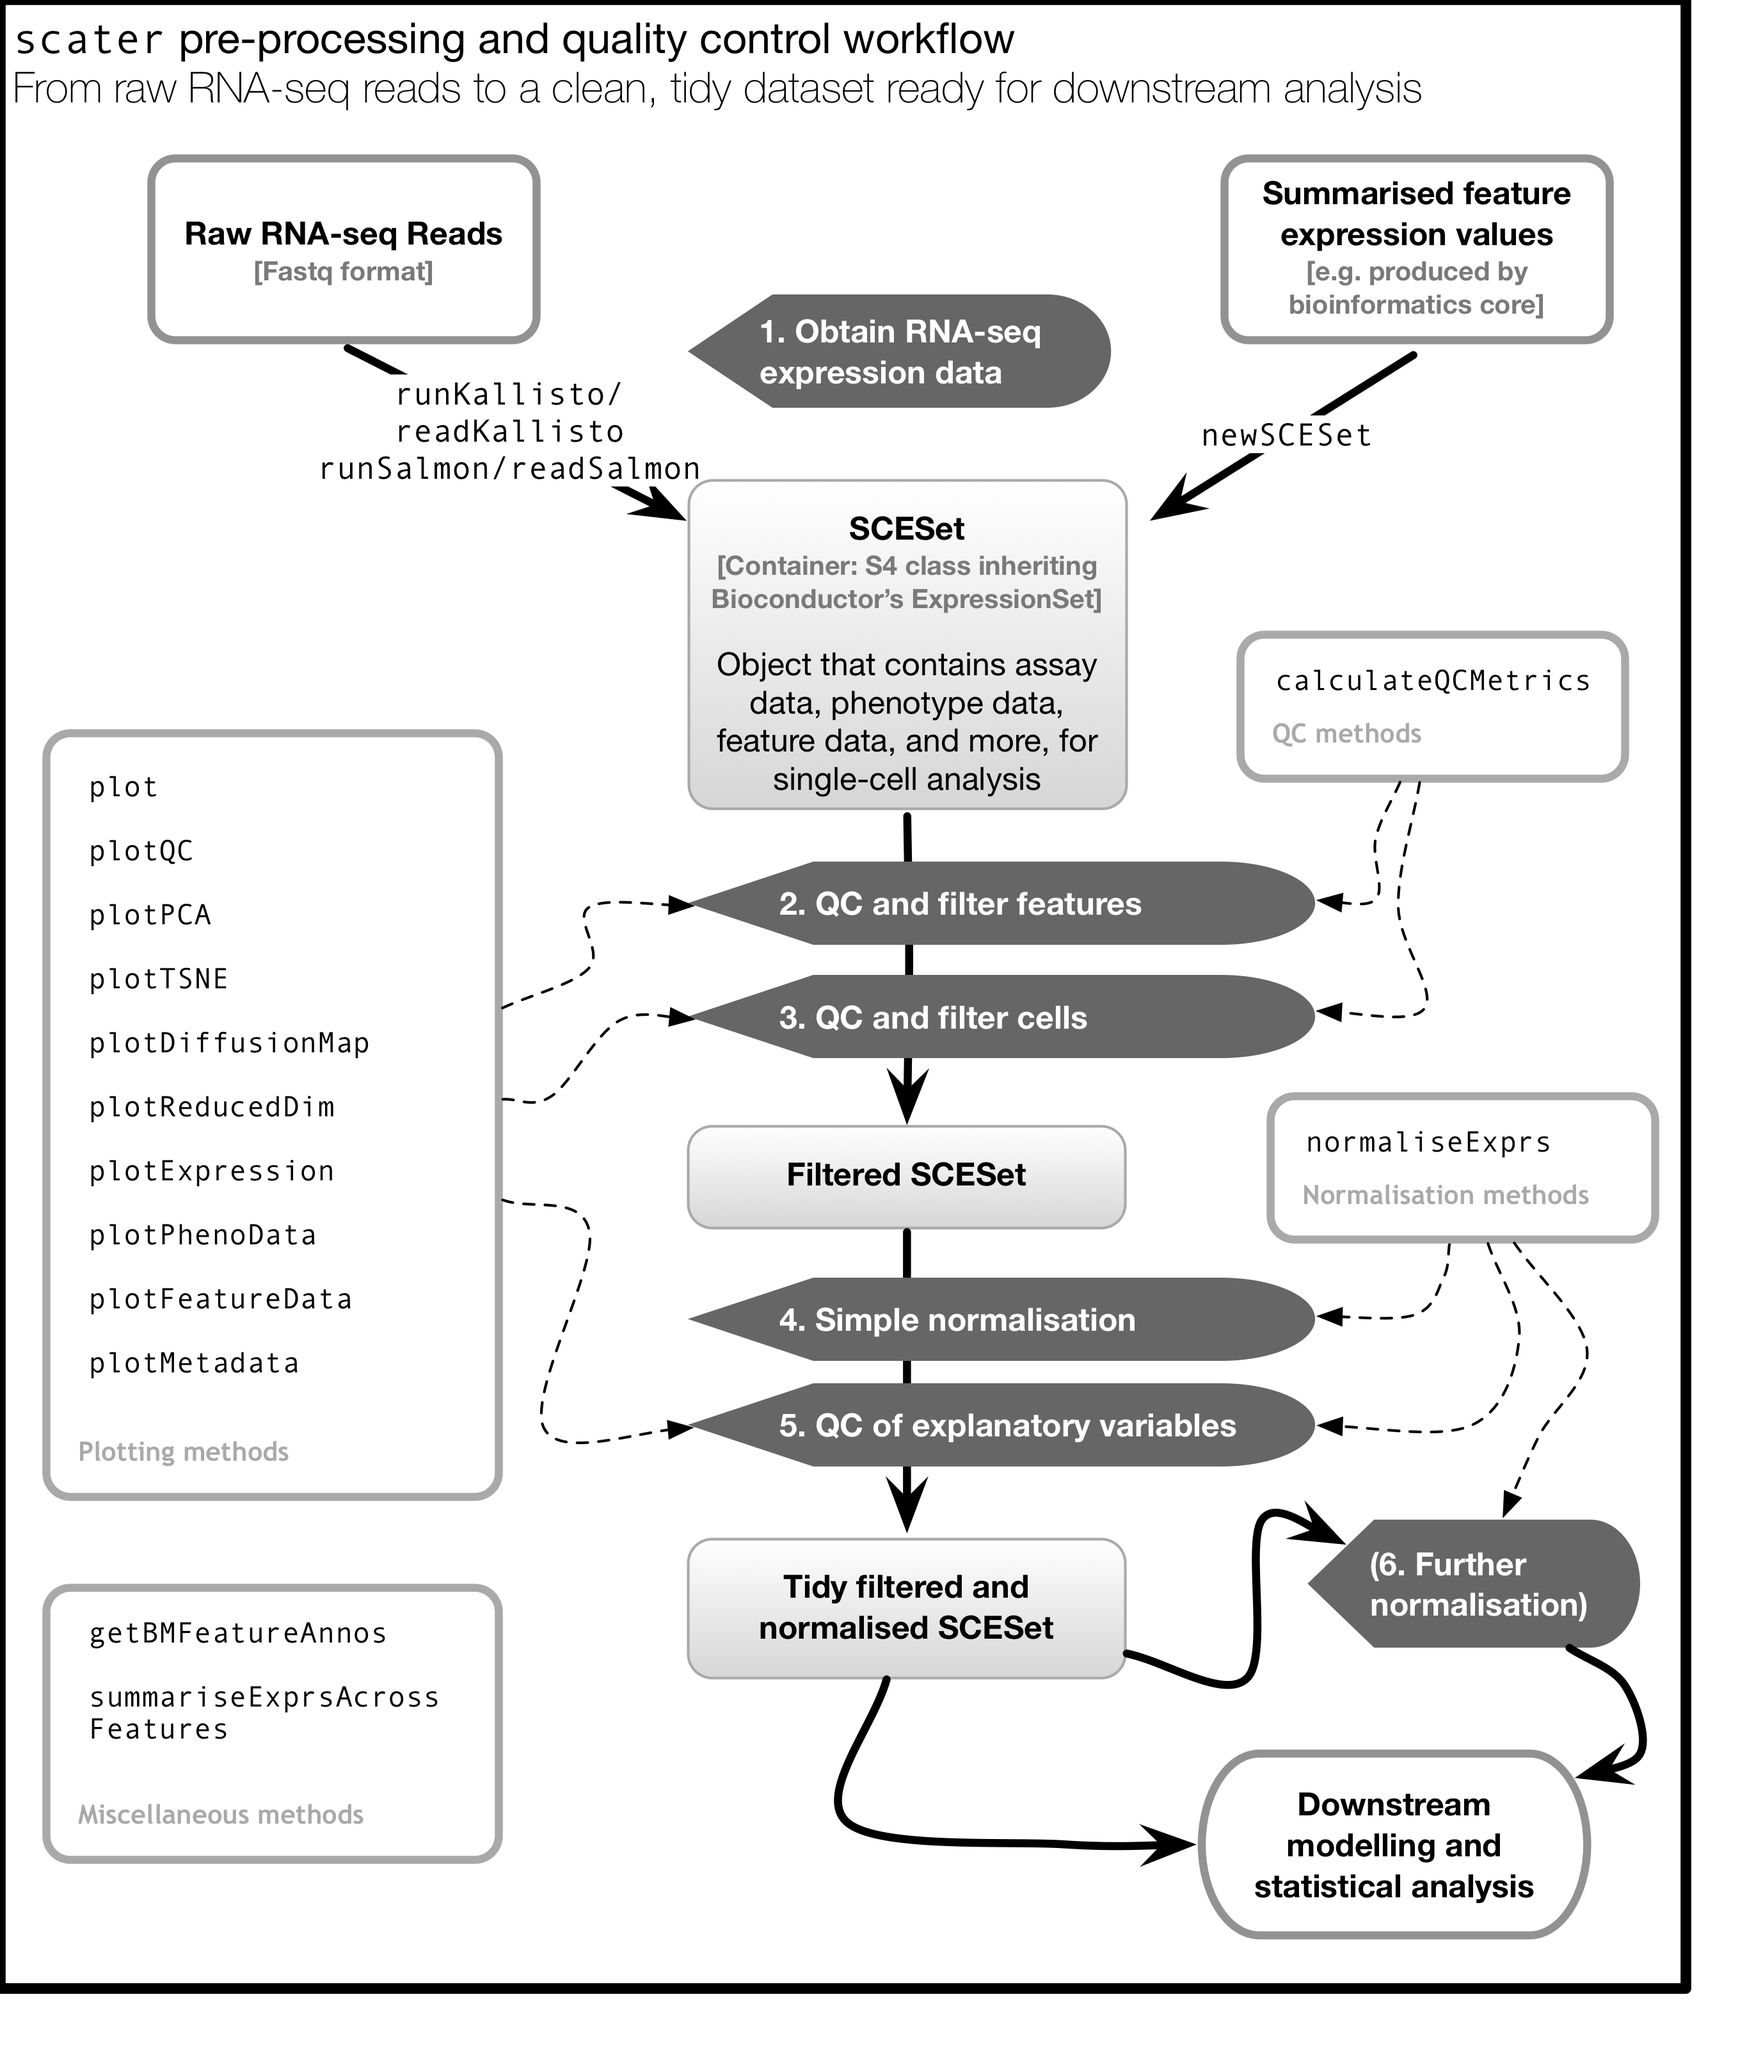
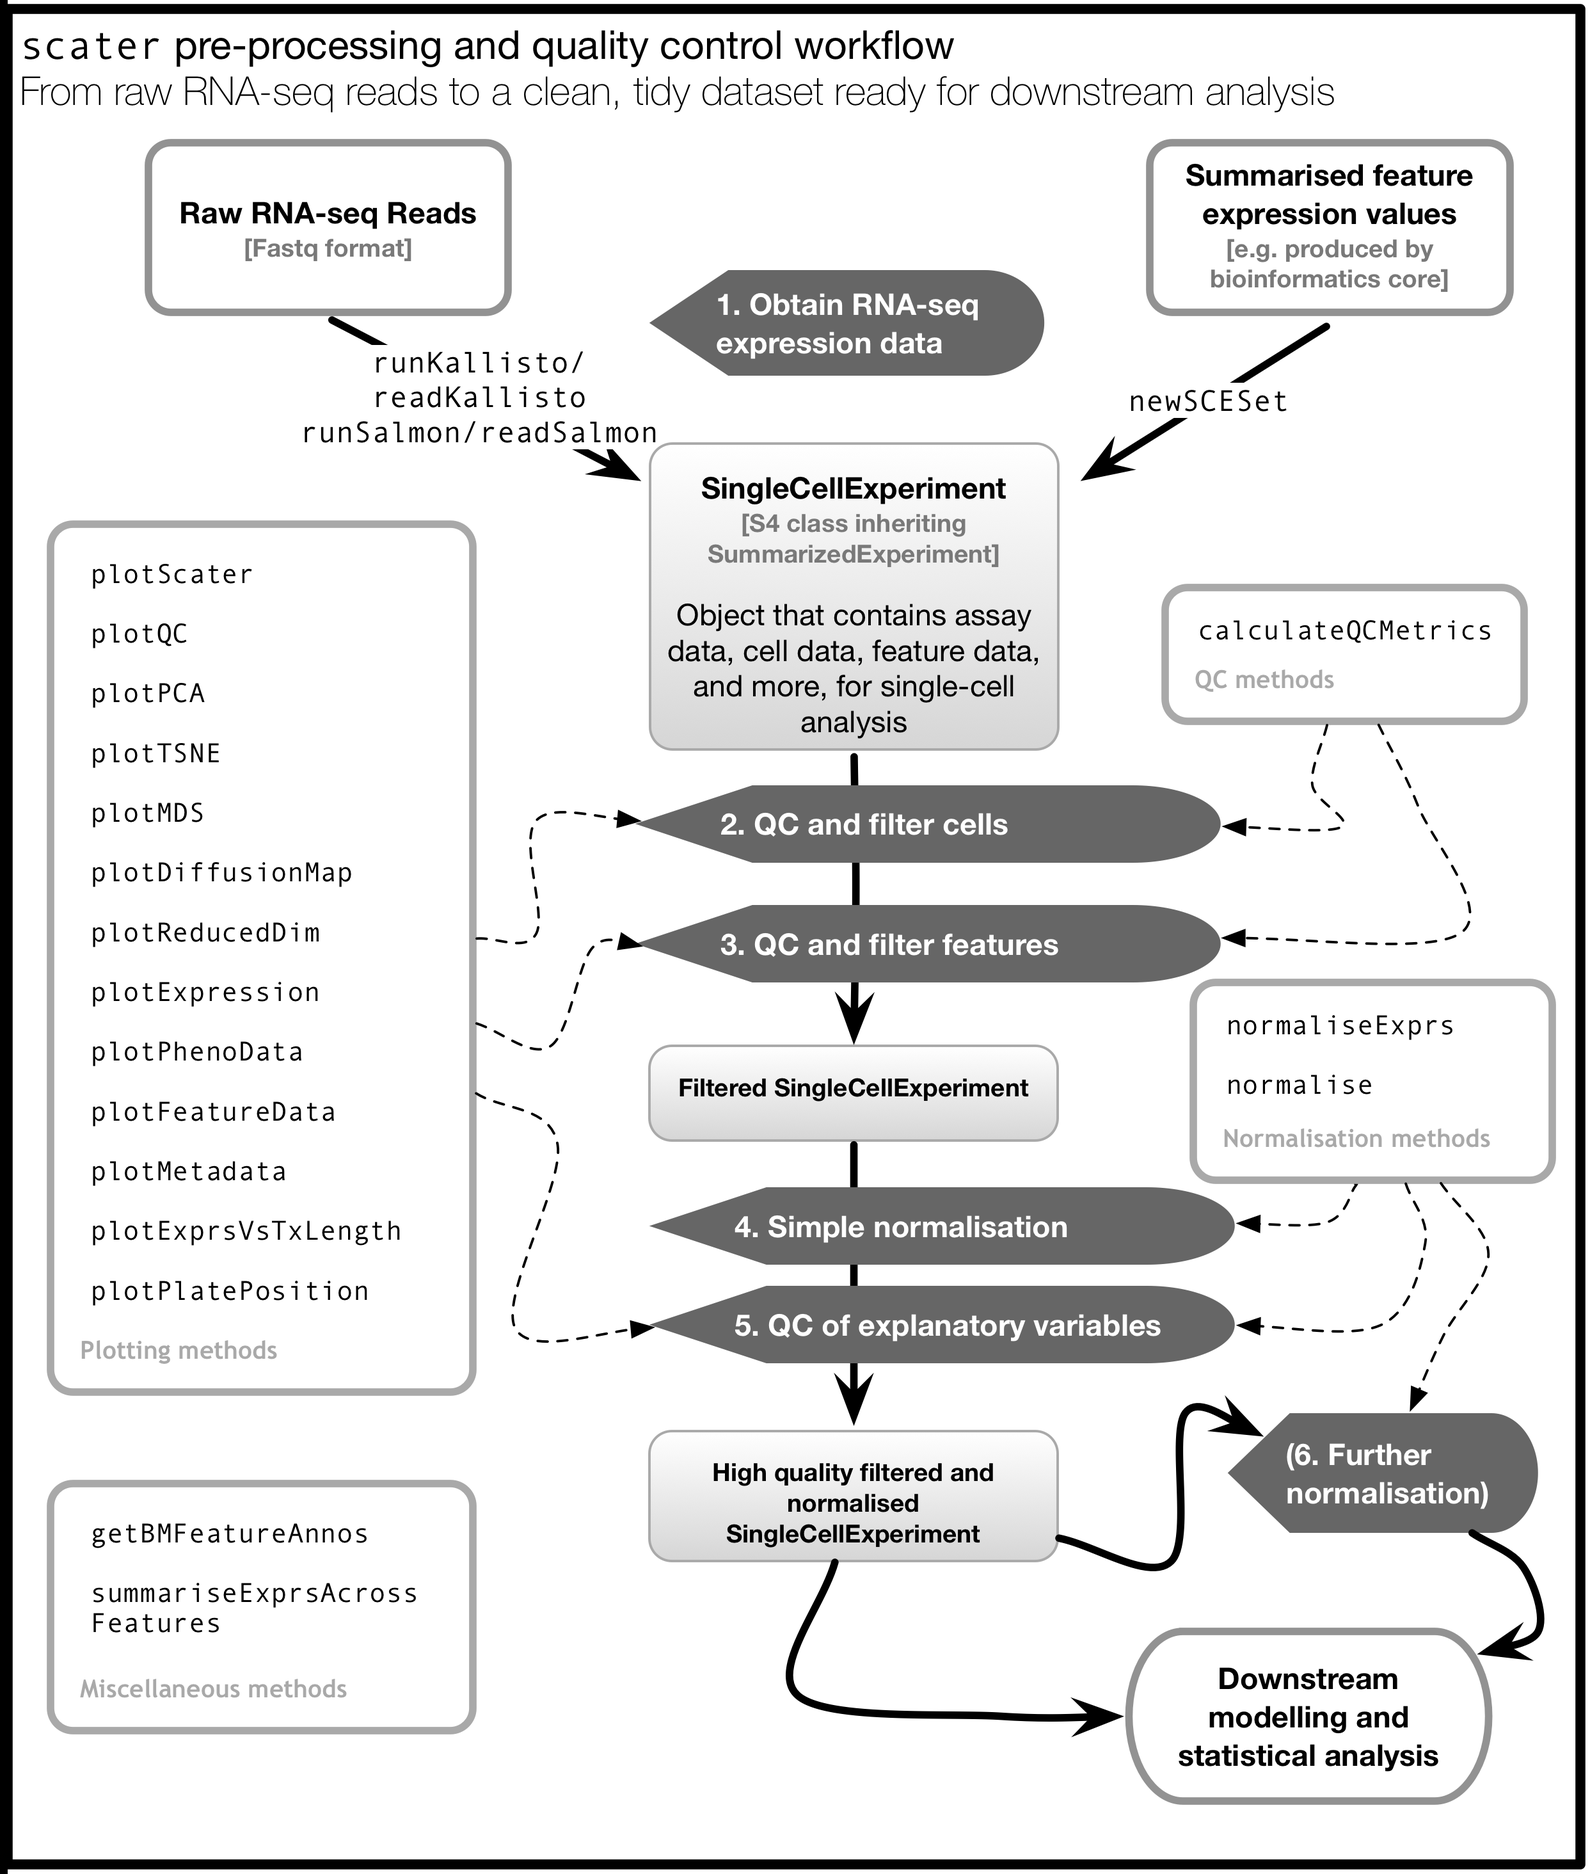
Updating README

Changed region(s): [[0.0, 0.0, 1.0, 1.0], [0.2169, 0.6527, 0.2479, 0.6837]]

diff --git a/README.md b/README.md
@@ -1,8 +1,8 @@
 # scater: single-cell analysis toolkit for expression with R
 
-[![Linux Build Status](https://semaphoreci.com/api/v1/davismcc/scater/branches/master/badge.svg)](https://semaphoreci.com/davismcc/scater)
-[![Coverage Status](https://img.shields.io/codecov/c/github/davismcc/scater/master.svg)](https://codecov.io/github/davismcc/scater?branch=master)
-[![Windows Build status](https://ci.appveyor.com/api/projects/status/github/davismcc/scater?svg=true)](https://ci.appveyor.com/project/davismcc/scater)
+<!--- [![Linux Build Status](https://semaphoreci.com/api/v1/davismcc/scater/branches/master/badge.svg)](https://semaphoreci.com/davismcc/scater) --->
+<!--- [![Coverage Status](https://img.shields.io/codecov/c/github/davismcc/scater/master.svg)](https://codecov.io/github/davismcc/scater?branch=master) --->
+<!--- [![Windows Build status](https://ci.appveyor.com/api/projects/status/github/davismcc/scater?svg=true)](https://ci.appveyor.com/project/davismcc/scater) --->
 <!--- [![Linux Build Status](https://travis-ci.org/davismcc/scater.svg?branch=master)](https://travis-ci.org/davismcc/scater) --->
 
 <img src=inst/scater_sticker_300dpi.png height="200">
@@ -14,22 +14,15 @@ before further downstream analysis.
 
 We hope that `scater` fills a useful niche between raw RNA-sequencing
 count or transcripts-per-million data and more focused downstream
-modelling tools such as
-[monocle](http://www.bioconductor.org/packages/release/bioc/html/monocle.html),
-[scLVM](http://github.com/PMBio/scLVM),
-[SCDE](http://pklab.med.harvard.edu/scde/index.html),
-[edgeR](http://www.bioconductor.org/packages/release/bioc/html/edgeR.html),
-[limma](http://www.bioconductor.org/packages/release/bioc/html/limma.html)
-and so on.
+modelling tools.
 
 Briefly, `scater` enables the following:
 
 1. Automated computation of QC metrics
 1. Transcript quantification from read data with pseudo-alignment
-2. Data format standardisation
 3. Rich visualisations for exploratory analysis
-4. Seamless integration into the Bioconductor universe
-5. Simple normalisation methods
+4. Seamless integration into the Bioconductor universe using the `SingleCellExperiment` class
+5. Simple normalisation methods and tight integration with the [`scran`](https://bioconductor.org/packages/devel/bioc/html/scran.html) package.
 
 See below for information about installation, getting started and highlights of the package.
 
@@ -47,64 +40,20 @@ biocLite("scater")
 ```
 
 The `scater` package has been available as a "release" version in
-the Bioconductor since April 2016. The release version of `scater` works with the release version of R and Bioconductor, and development will continue in the devel version of the package on Bioconductor. Future releases will follow the regular 
-Bioconductor release cycle.
+the Bioconductor since April 2016. The release version of `scater` works with 
+the release version of R and Bioconductor, and development will continue in the 
+devel version of the package on Bioconductor. Future releases will follow the 
+regular Bioconductor release cycle.
 
-## Installation from Github
-Alternatively, `scater` can be installed directly from GitHub as
-described below. In this case, package that `scater` uses ("depends
-on" in R parlance) may not be automatically installed, so you may
-have to install the required packages as shown below.
-
-I recommend using Hadley Wickham's `devtools` package to install
-`scater` directly from GitHub. If you don't have `devtools` installed,
-then install that from CRAN (as shown below) and then run the call to
-install `scater`:
-
-**If you are using R version 3.3:**
-
-```{r}
-install.packages("devtools")
-devtools::install_github("davismcc/scater", build_vignettes = TRUE)
-```
-
-**If you are using R version 3.2.3:**
-```{r}
-devtools::install_github("davismcc/scater", ref = "release-R-3.2", build_vignettes = TRUE)
-```
-
-If you find that the above will not install on Linux systems, please
-try with the option `build_vignettes = FALSE`. This is a known issue
-that we are working to resolve.
-
-Using the most recent version of R is strongly recommended (R 3.3.2 at the time
+Using the most recent version of R is strongly recommended (R 3.4 at the time
 of writing). Effort has been made to ensure the package works with R >3.0, but
 the package has not been tested with R <3.1.1.
 
-There are several other packages from CRAN and Bioconductor that `scater` uses,
-so you will need to have these packages installed as well. The CRAN packages
-should install automatically when `scater` is installed, but you will need to
-install the Bioconductor packages manually.
+There are several other packages from CRAN and Bioconductor that `scater` uses; 
+installing through Bioconductor will install these packages as well.
 
-Not all of the following are strictly necessary, but they enhance the
-functionality of `scater` and are good packages in their own right. The commands
-below should help with package installations.
-
-CRAN packages:
-
-```{r}
-install.packages(c("data.table", "ggplot2", "knitr", "matrixStats", "MASS",
-                "plyr", "reshape2", "rjson", "testthat", "viridis"))
-```
-
-Bioconductor packages:
-
-```{r}
-source("http://bioconductor.org/biocLite.R")
-biocLite(c("Biobase", "biomaRt", "edgeR", "limma", "rhdf5"))
-```
-
-Optional packages that are not strictly required but enhance the functionality of `scater`:
+The following optional packages are not strictly required but enhance the 
+functionality of `scater`:
 
 ```{r}
 install.packages(c("cowplot", "cluster", "mvoutlier", "parallel", "Rtsne"))
@@ -120,10 +69,6 @@ install.packages("dplyr")
 
 ## Getting started
 
-<!---
-The best place to start is the [vignette](http://htmlpreview.github.io/?http://github.com/davismcc/scater/blob/master/vignettes/vignette.html).
--->
-
 The best place to start is the vignette. From inside an R session, load `scater`
 and then browse the vignettes:
 
@@ -135,6 +80,9 @@ browseVignettes("scater")
 There is a detailed HTML document available that introduces the main features
 and functionality of `scater`.
 
+The [step-by-step workflow](https://f1000research.com/articles/5-2122/v2) offers
+further examples of using `scater` and `scran` for low-level analysis of 
+scRNA-seq data.
 
 ## `scater` workflow
 
@@ -166,7 +114,7 @@ The `runKallisto` and `runSalmon` functions provides wrappers to the [`kallisto`
 
 ### Plotting functions
 
-Default `plot` for an SCESet object gives cumulative expression for the
+Default `plotScater` for an SCESet object gives cumulative expression for the
 most-expressed features (genes or transcripts)
 
 The `plotTSNE` function produces a t-distributed stochastic neighbour embedding
@@ -198,9 +146,11 @@ Plus many, many more possibilities. Please consult the vignette and documentatio
 The package leans heavily on previously published work and packages, namely
 [edgeR](http://bioconductor.org/packages/release/bioc/html/edgeR.html) and
 [limma](http://bioconductor.org/packages/release/bioc/html/limma.html). The
-`SCESet` class is inspired by the `CellDataSet` class from [monocle](http://www.bioconductor.org/packages/release/bioc/html/monocle.html),
-and `SCESet` objects in `scater` can be easily converted to and from `monocle's`
-`CellDataSet` objects.
+`SingleCellExperiment` class from the [SingleCellExperiment](http://www.bioconductor.org/packages/release/bioc/html/SingleCellExperiment.html)
+package (new for Bioconductor 3.6+) provides a modern data 
+structure to support single-cell analyses. `scater` has adopted this data 
+structure from Bioconductor 3.6; wide adoption across Bioconductor will 
+streamline analysis workflows using multiple packages.
 
 The `scater` sticker is licensed under Creative Commons Attribution
 [CC-BY](https://creativecommons.org/licenses/by/2.0/). Feel free to
@@ -208,7 +158,9 @@ share and adapt, but don't forget to credit the author. Skateboard icon made by
 [Nikita Golubev](http://www.flaticon.com/authors/nikita-golubev) from 
 [Flaticon](http://www.flaticon.com) is licensed by [Creative Commons BY 3.0](http://creativecommons.org/licenses/by/3.0/).
 
-We hope the `scater` package makes your life easier when analysing single-cell RNA_seq data. Please do try it and contact me with bug reports, feedback, feature
+We hope the `scater` package makes your life easier when analysing single-cell 
+RNA_seq data. Please do try it and contact us with bug reports, feedback, feature
 requests, questions and suggestions to improve the package.
 
-Davis McCarthy, April 2017
+Davis McCarthy, September 2017
+(on behalf of `scater` authors and contributors)
